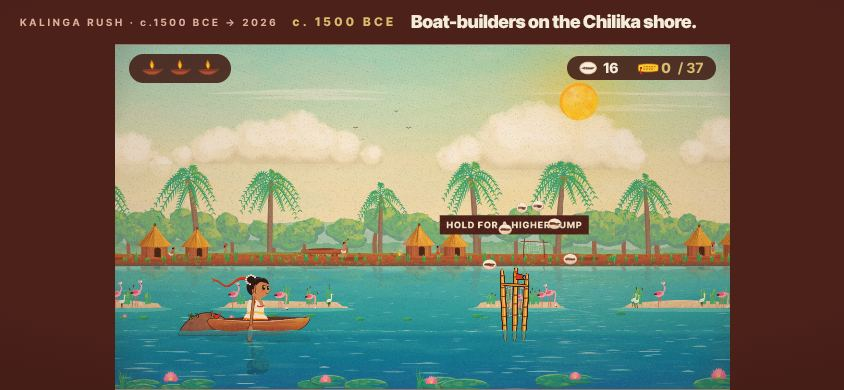
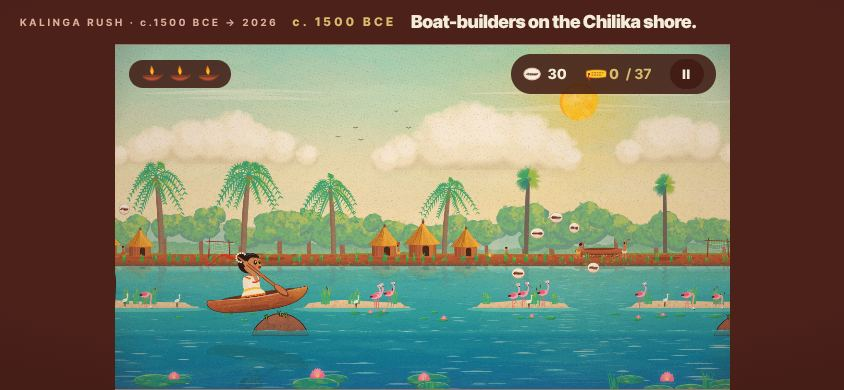
Kalinga Rush: all 45 scenes, rides and hazards in place; cloud seam fix
Claude-Session: https://claude.ai/code/session_01Q6gP1VUKS6bdxZH2Rs5Xas

diff --git a/kalinga-rush/tools/play-through.ts b/kalinga-rush/tools/play-through.ts
@@ -1,0 +1,31 @@
+// Integration smoke test: loads the real game on the dev server and autopilots
+// through records via ?auto=1&god=1, checking that each record bakes, runs,
+// and ends without page errors. Usage: npx tsx tools/play-through.ts 1,2,3 [seconds-each]
+import { join } from 'node:path';
+import { createServer } from 'vite';
+import { chromium } from 'playwright-core';
+
+const nums = (process.argv[2] ?? '1').split(',').map(Number);
+const secs = Number(process.argv[3] ?? 8);
+const server = await createServer({ root: join(import.meta.dirname, '..'), server: { port: 0, host: '127.0.0.1' }, logLevel: 'error' });
+await server.listen();
+const addr = server.httpServer!.address();
+const port = typeof addr === 'object' && addr ? addr.port : 5173;
+const browser = await chromium.launch({ executablePath: '/opt/pw-browsers/chromium-1194/chrome-linux/chrome', args: ['--use-angle=swiftshader', '--enable-unsafe-swiftshader'] });
+let bad = 0;
+for (const n of nums) {
+  const page = await browser.newPage({ viewport: { width: 1000, height: 720 } });
+  const errs: string[] = [];
+  page.on('pageerror', (e) => errs.push(e.message));
+  page.on('console', (m) => { if (m.type() === 'error') errs.push(m.text()); });
+  await page.goto(`http://127.0.0.1:${port}/?record=${n}&god=1&auto=1&at=${Math.max(0, secs - 3)}`);
+  await page.waitForTimeout(secs * 1000);
+  const ok = (await page.evaluate("!!document.querySelector('#game canvas') && document.getElementById('app').classList.contains('is-playing')")) as boolean;
+  const hdr = await page.textContent('#hdr-headline');
+  console.log(`${errs.length || !ok ? '✗' : '✓'} #${n} ${hdr?.trim().slice(0, 40)}${errs.length ? ' — ' + errs.slice(0, 2).join(' | ') : ''}`);
+  if (errs.length || !ok) bad++;
+  await page.close();
+}
+await browser.close();
+await server.close();
+process.exit(bad ? 1 : 0);

diff --git a/kalinga-rush/src/art/engine.ts b/kalinga-rush/src/art/engine.ts
@@ -124,7 +124,7 @@ function paintSunLayer(s: SkyDef): HTMLCanvasElement {
 }
 
 function paintClouds(rng: Rng, kind: SkyDef['clouds'], tint?: string): HTMLCanvasElement {
-  const H = 250;
+  const H = 330;
   const [c, ctx] = makeCanvas(TW, H);
   if (kind === 'none') return c;
   if (kind === 'streak') {
@@ -153,6 +153,14 @@ function paintClouds(rng: Rng, kind: SkyDef['clouds'], tint?: string): HTMLCanva
     ctx.fillRect(0, 0, TW, H);
     ctx.globalCompositeOperation = 'source-over';
   }
+  // Soft fade at the bottom edge so tiles never show a flat cut.
+  ctx.globalCompositeOperation = 'destination-out';
+  const fade = ctx.createLinearGradient(0, H - 90, 0, H);
+  fade.addColorStop(0, withAlpha(P.ink, 0));
+  fade.addColorStop(1, withAlpha(P.ink, 1));
+  ctx.fillStyle = fade;
+  ctx.fillRect(0, H - 90, TW, 90);
+  ctx.globalCompositeOperation = 'source-over';
   return c;
 }
 
